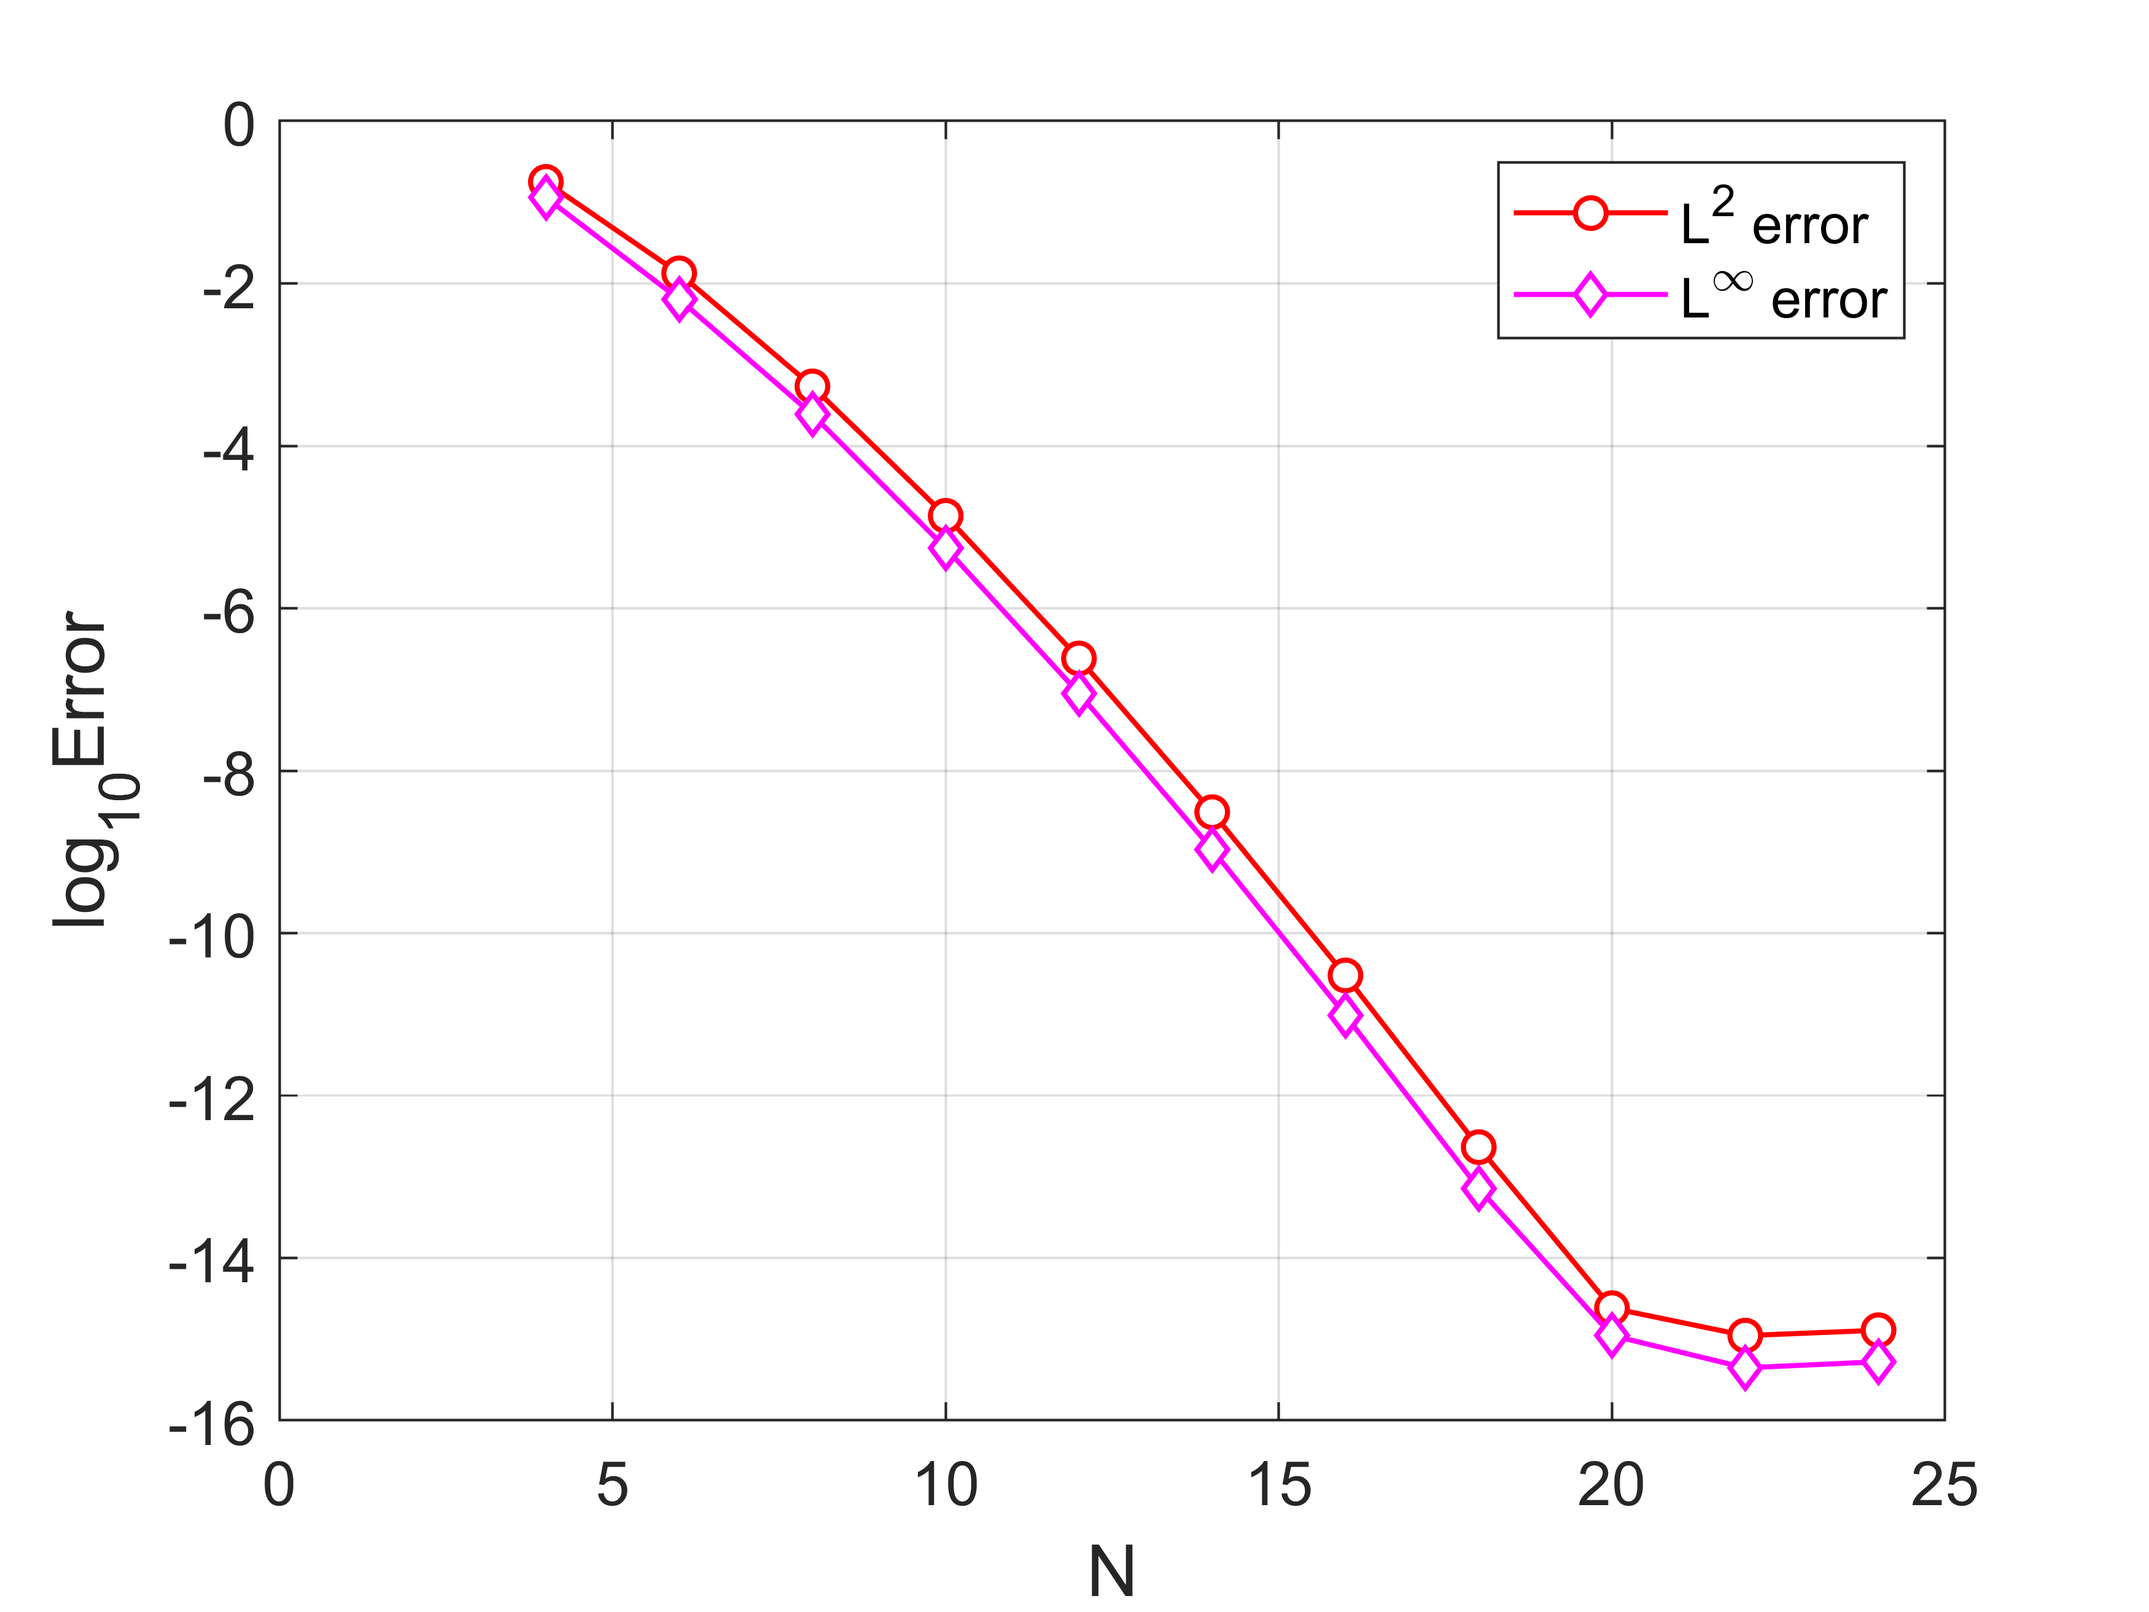
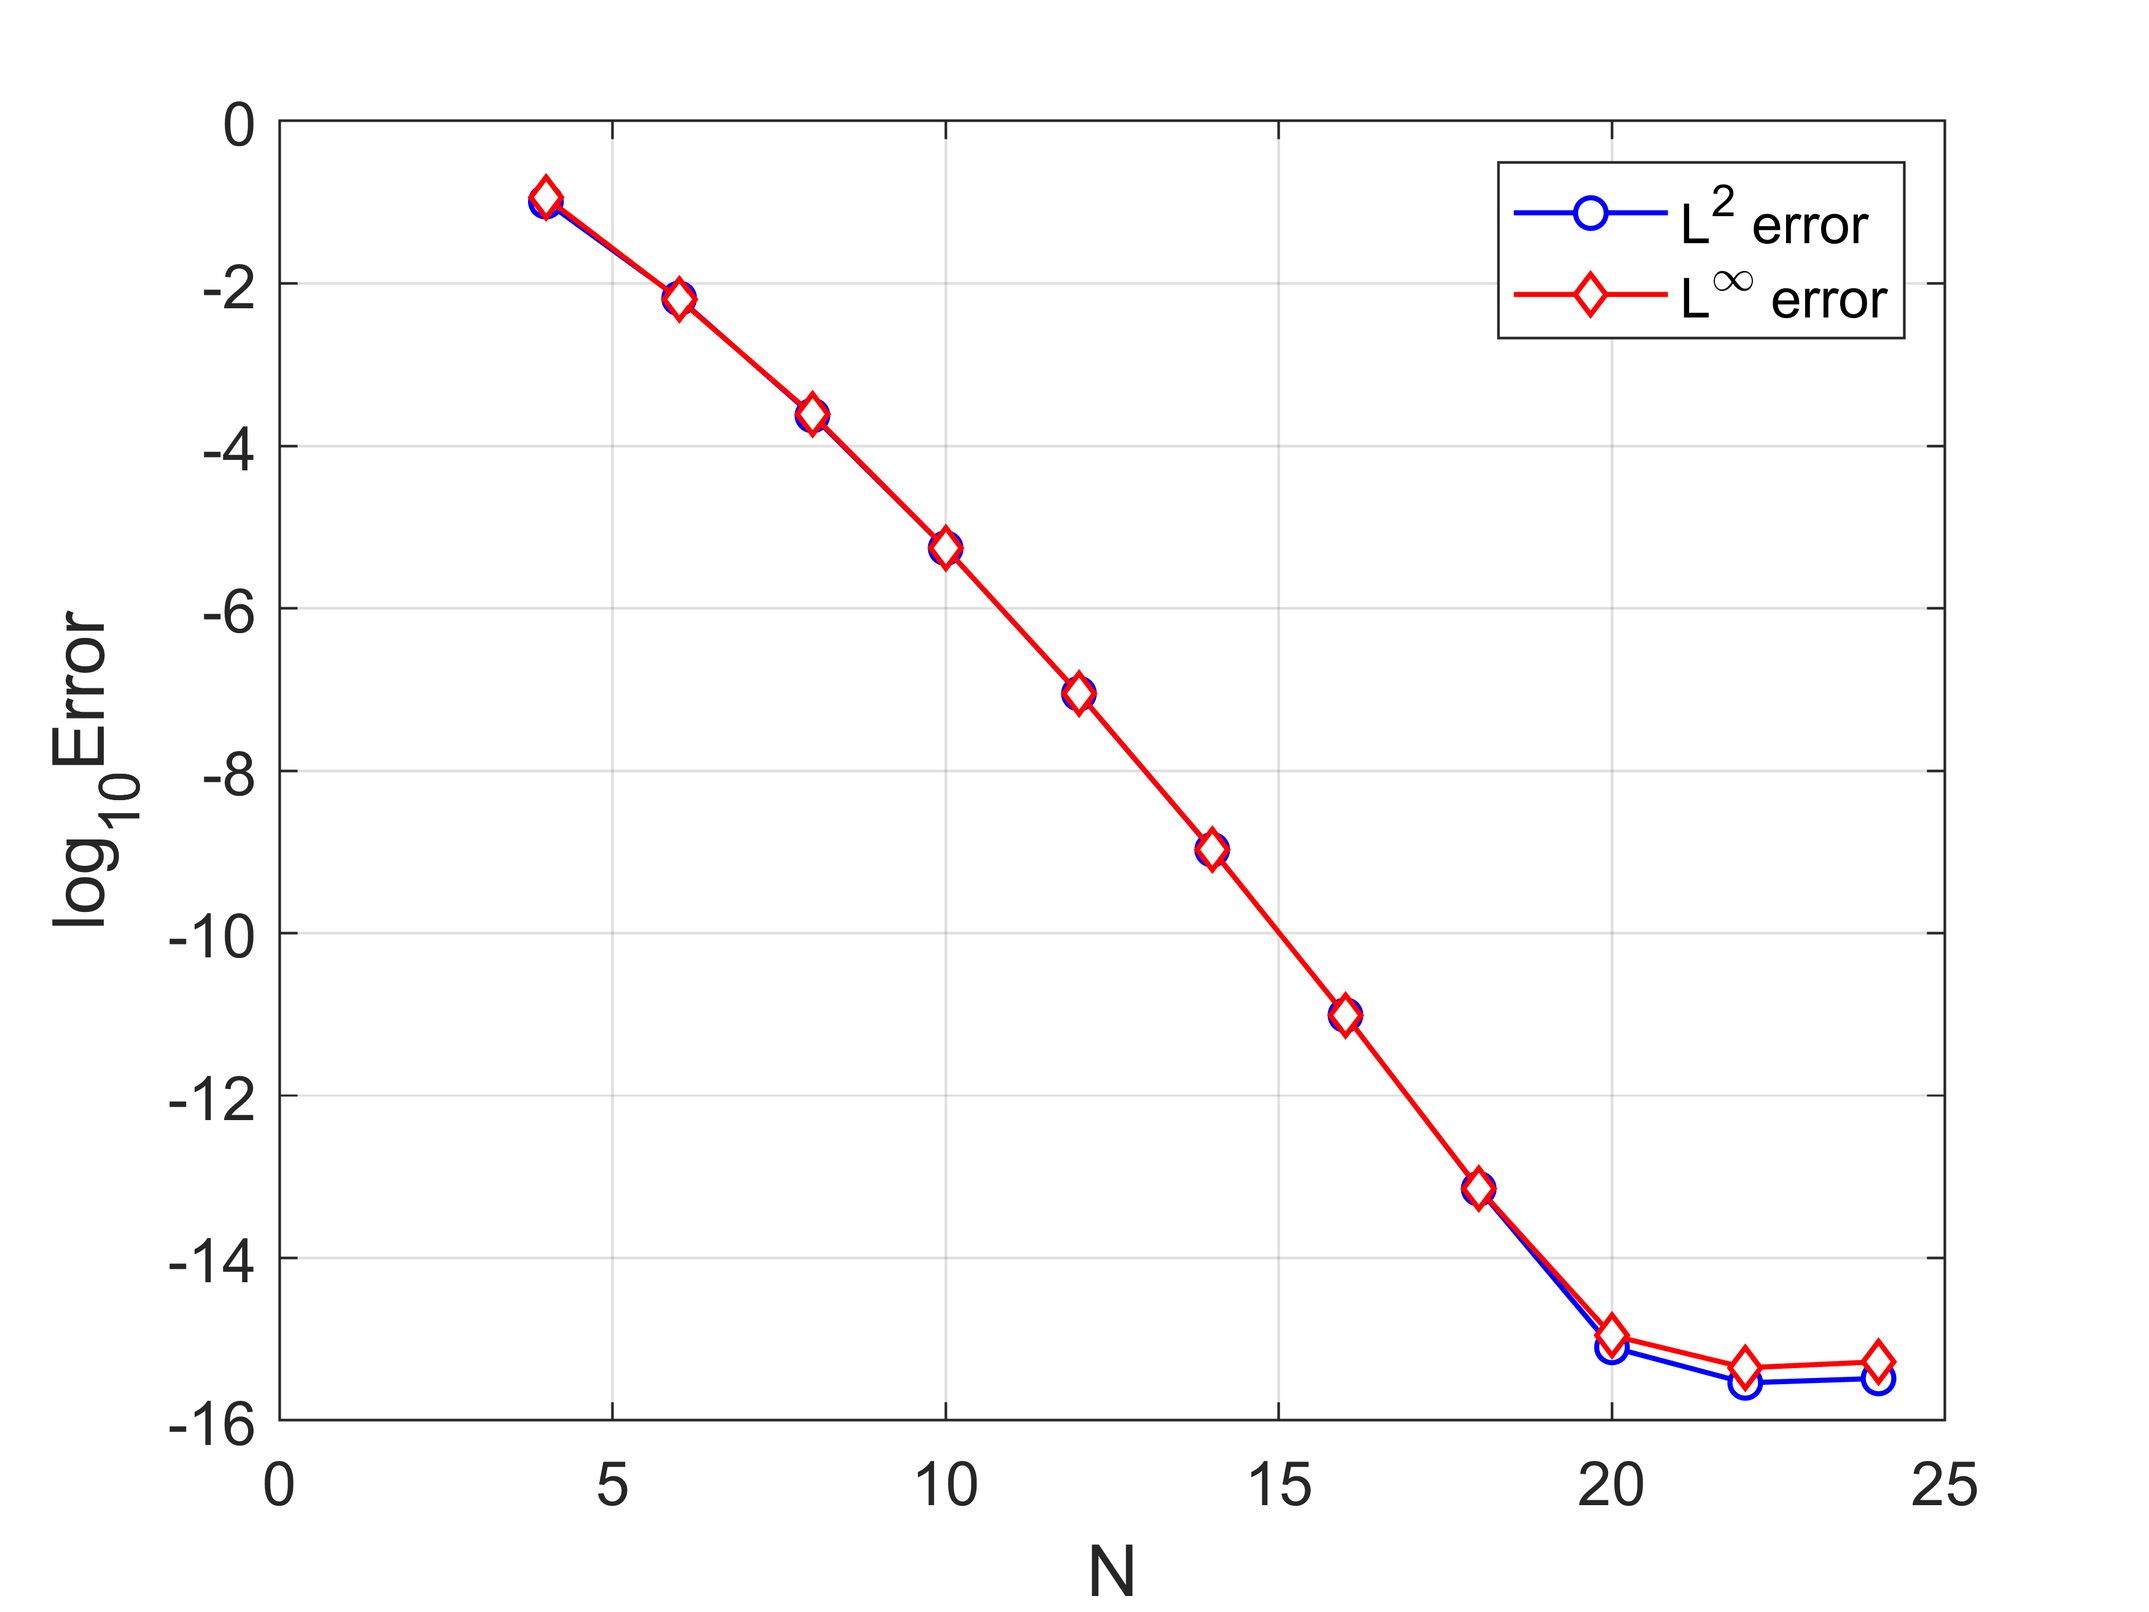
Update

diff --git a/SM Code/LegenSM2_error.m b/SM Code/LegenSM2_error.m
@@ -1,19 +1,24 @@
 % LegenSM2_error.m
 % Legendre-Galerkin Method for the model equation
-% -u''(x)+u'(x)+u(x)=f(x), x in (-1,1),
+% -mu*u''(x)+nu*u'(x)+rho*u(x)=f(x), x in (-1,1),
 % boundary condition: u(-1)=u(1)=0;
 % exact solution: u=sin(kw*pi*xv); 
-% RHS: f=kw*kw*pi^2*sin(kw*pi*xv)+sin(kw*pi*xv); 
+% RHS: f(x)=mu*kw^2*pi^2*sin(kw*pi*x)+nu*kw*pi*cos(kw*pi*x)+rho*sin(kw*pi*x); 
 % Rmk: Use routines lepoly(); legs(); lepolym();
-clear all;  clf
+clear, clf
 kw=1;
+mu=1;
+nu=1;
+rho=1;
 Nvec=[4:2:24];
-L2_Error=[]; Max_Error=[];   % initialization error
+% Initialization for error
+L2_Error=[];  Max_Error=[]; 
+
 for N=Nvec
     [xv,wv]=legs(N+1);       % Legendre-Gauss nodes and weights
     Lm=lepolym(N,xv);        % matrix of Legendre polynomals
     u=sin(kw*pi*xv);         % test function
-    f=kw*kw*pi^2*sin(kw*pi*xv)+sin(kw*pi*xv)+kw*pi*cos(kw*pi*xv);  % RHS
+    f=mu*kw*kw*pi^2*sin(kw*pi*xv)+nu*kw*pi*cos(kw*pi*xv)+rho*sin(kw*pi*xv);  % RHS
     % Calculating coefficients matrix
     S=eye(N-1);              % stiffness matrix
     M=diag(1./(4*[0:N-2]+6))*diag(2./(2*[0:N-2]+1)+2./(2*[0:N-2]+5))...
@@ -21,22 +26,22 @@ for N=Nvec
         -diag(2./(sqrt(4*[2:N-2]-2).*sqrt(4*[2:N-2]+6).*(2*[2:N-2]+1)),-2);   % mass matrix
     D=diag(1./(sqrt(2.*[0:N-3]+3).*sqrt(2.*[0:N-3]+5)),1)...
         +diag(-1./(sqrt(2.*[0:N-3]+3).*sqrt(2.*[0:N-3]+5)),-1);     % matrix of derivative term
-    A=S+M+D;          % coefficient matrix
+    A=mu*S+rho*M+nu*D;          % coefficient matrix
     % Solving the linear system
     Pm=diag(1./sqrt(4*[0:N-2]+6))*(Lm(1:end-2,:)-Lm(3:end,:));    % matrix of Phi(x)
     b=Pm*diag(wv)*f; 
     uh=A\b;           % expansion coefficients of u_N(x)
     un=Pm'*uh;        % Coefficiets to points
 
-    L2_error=norm(abs(un-u),2);      % L^2 error
+    L2_error=sqrt(((un-u).^2)'*wv);  % L^2 error
     Max_error=norm(abs(un-u),inf);   % maximum pointwise error 
     L2_Error=[L2_Error;L2_error];
     Max_Error=[Max_Error;Max_error];
 end
 % Plot L^2 and maximum pointwise error
-plot(Nvec,log10(L2_Error),'ro-','MarkerFaceColor','w','LineWidth',1)
+plot(Nvec,log10(L2_Error),'bo-','MarkerFaceColor','w','LineWidth',1)
 hold on
-plot(Nvec,log10(Max_Error),'md-','MarkerFaceColor','w','LineWidth',1)
+plot(Nvec,log10(Max_Error),'rd-','MarkerFaceColor','w','LineWidth',1)
 grid on
 legend('L^2 error','L^{\infty} error','location','NorthEast')
 % title('Error of Legendre-Galerkin methods','fontsize',12)

diff --git a/SM Code/LegenCM2_error.m b/SM Code/LegenCM2_error.m
@@ -1,39 +1,40 @@
 % LegenCM2_error.m
 % Legendre-collocation Method for the model equation: 
-% -u''(x)+mu*u'(x)+nu*u(x)=f(x),  x in (-1,1);
+% -mu*u''(x)+nu*u'(x)+rho*u(x)=f(x),  x in (-1,1);
 % % boundary condition: u(-1)=u(1)=0;
 % exact solution: u=sin(kw*pi*x); 
-% RHS: f(x)=kw^2*pi^2*sin(kw*pi*x)+sin(kw*pi*x)+kw*pi*cos(kw*pi*x); 
+% RHS: f(x)=mu*kw^2*pi^2*sin(kw*pi*x)+nu*kw*pi*cos(kw*pi*x)+rho*sin(kw*pi*x); 
 % Rmk: Use routines lepoly(); legslb(); legslbdm(); 
 clear all;  clf
 kw=10;
 nu=1;
 mu=1;
-Nvec=[32:2:76];
+rho=1;
+Nvec=32:2:76;
 % Initialization for error
-L2_Error=[];
-Max_Error=[];
+L2_Error=[];  Max_Error=[];
 for N=Nvec
     [xv,wv]=legslb(N);          % compute LGL nodes and weights
     u=sin(kw*pi*xv);            % test function
-    f=kw*kw*pi^2*sin(kw*pi*xv)+nu*kw*pi*cos(kw*pi*xv)+mu*sin(kw*pi*xv);  % RHS
+    f=mu*kw*kw*pi^2*sin(kw*pi*xv)+nu*kw*pi*cos(kw*pi*xv)+rho*sin(kw*pi*xv);  % RHS
     % Setup and solve the collocation system
     D1=legslbdiff(N,xv);  % 1st order differentiation matrices
     %D1=legslbdm(N);      % 1st order differentiation matrices
     D2=D1*D1;             % 2nd order differentiation matrices
-    D=-D2(2:N-1,2:N-1)+nu*D1(2:N-1,2:N-1)+mu*eye(N-2);   % coefficient matrices
+    D=-mu*D2(2:N-1,2:N-1)+nu*D1(2:N-1,2:N-1)+rho*eye(N-2);   % coefficient matrices
     b=f(2:N-1);   % RHS
     un=D\b;
     un=[0;un;0];  % Solve the system 
     
-    L2_error=norm(abs(un-u),2);      % L^2 error
-    Max_error=norm(abs(un-u),inf);   % maximum pointwise error 
+    L2_error=sqrt(((un-u).^2)'*wv);  % L^2 error
+    Max_error=norm(abs(un-u),inf);  % maximum pointwise error 
     L2_Error=[L2_Error;L2_error];
     Max_Error=[Max_Error;Max_error];
 end
-plot(Nvec,log10(L2_Error),'ro-','MarkerFaceColor','w','LineWidth',1)
+% Plot L^2 and maximum pointwise error
+plot(Nvec,log10(L2_Error),'bo-','MarkerFaceColor','w','LineWidth',1)
 hold on
-plot(Nvec,log10(Max_Error),'md-','color',[0 0.5 0],'MarkerFaceColor','w','LineWidth',1)
+plot(Nvec,log10(Max_Error),'rd-','MarkerFaceColor','w','LineWidth',1)
 grid on
 legend('L^2 error','L^{\infty} error','location','NorthEast')
 set(gca,'fontsize',12)

diff --git a/SM Code/LegenCM1_error.m b/SM Code/LegenCM1_error.m
@@ -6,36 +6,35 @@
 % RHS: f=kw*kw*pi^2*sin(kw*pi*x)+alpha*sin(kw*pi*x);
 % Rmk: Use routines lepoly(); legslb(); legslbdm();
 clear all;  clf
-alpha=1;
+alp=1;
 kw=1;
 Nvec=[4:2:30];
 % Nvec=[32:2:76];  % kw=10
 % Initialization for error
-L2_Error=[];
-Max_Error=[];
+L2_Error=[];  Max_Error=[];
 for N=Nvec
-    [x,w]=legslb(N);          % compute LGL nodes and weights
-    u=sin(kw*pi*x);           % test solution
-    udprime=-kw*kw*pi*pi*sin(kw*pi*x);
-    f=-udprime+alpha*u;       % RHS
+    [xv,wv]=legslb(N);          % compute LGL nodes and weights
+    u=sin(kw*pi*xv);           % test solution
+    udprime=-kw*kw*pi*pi*sin(kw*pi*xv);
+    f=-udprime+alp*u;       % RHS
     % Setup and solve the collocation system
     D1=legslbdm(N);           % 1st order differentiation matrices
     %D1=legslbdiff(N,x);      % 1st order differentiation matrices
     D2=D1*D1;                 % 2nd order differentiation matrices
-    D=(-D2(2:N-1,2:N-1)+alpha*eye(N-2)); % coefficient matrix
+    D=(-D2(2:N-1,2:N-1)+alp*eye(N-2)); % coefficient matrix
     b=f(2:N-1);               % RHS
     un=D\b;
     un=[0;un;0];              % Solve the system
     
-    L2_error=norm(abs(un-u),2);     % L^2 error
+    L2_error=sqrt(((un-u).^2)'*wv);  % L^2 error
     Max_error=norm(abs(un-u),inf);  % maximum pointwise error 
     L2_Error=[L2_Error;L2_error];
     Max_Error=[Max_Error;Max_error];
 end
 % Plot L^2 and maximum pointwise error
-plot(Nvec,log10(L2_Error),'ro-','MarkerFaceColor','w','LineWidth',1)
+plot(Nvec,log10(L2_Error),'bo-','MarkerFaceColor','w','LineWidth',1)
 hold on
-plot(Nvec,log10(Max_Error),'md-','MarkerFaceColor','w','LineWidth',1)
+plot(Nvec,log10(Max_Error),'rd-','MarkerFaceColor','w','LineWidth',1)
 grid on
 legend('L^2 error','L^{\infty} error','location','NorthEast')
 %title('Convergence of Legendre-collocation method','fontsize',12)

diff --git a/SM Code/ChebSM1_error.m b/SM Code/ChebSM1_error.m
@@ -8,11 +8,11 @@ clear all
 kw=10;
 Nvec=[32:2:76];
 % Initialization for error
-L2_Error=[];
-Max_Error=[];
+L2_Error=[];  Max_Error=[];
+
 for N=Nvec
     [xv,wv]=jags(N+1,-1/2,-1/2);               % Chebyshev-Gauss points and weights
-    Cm=japolym(N,-1/2,-1/2,xv)./japolym(N,-1/2,-1/2,1);   % matrix of Chebyshev polynomal    
+    Cm=japolym(N,-1/2,-1/2,xv)./japolym(N,-1/2,-1/2,1);  % matrix of Chebyshev polynomal    
     u=sin(kw*pi*xv);                           % test function
     f=kw*kw*pi^2*sin(kw*pi*xv)+sin(kw*pi*xv);  % RHS of test function
     % Calculting coefficient matrix
@@ -29,21 +29,21 @@ for N=Nvec
         +diag(-pi/2*ones(1,N-3),-2);    % mass matrix
     A=S+M;
     
-    % RHS calculative matrix
-    Pm=Cm(1:end-2,:)-Cm(3:end,:);
+    % Solving the linear system
+    Pm=Cm(1:end-2,:)-Cm(3:end,:);   % matrix of Phi(x)
     b=Pm*diag(wv)*f;          % Solving RHS
     uh=A\b;                   % expansion coefficients of u_N in terms of the basis
     un=Pm'*uh;                % compositing the numerical solution
     
-    L2_error=norm(abs(un-u),2);     % L^2 error
-    Max_error=norm(abs(un-u),inf);  % maximum pointwise error 
+    L2_error=sqrt(((un-u).^2)'*wv);  % L^2 error
+    Max_error=norm(abs(un-u),inf);   % maximum pointwise error 
     L2_Error=[L2_Error;L2_error];
     Max_Error=[Max_Error;Max_error];
 end
 % Plot L^2 and maximum pointwise error
-plot(Nvec,log10(L2_Error),'ro-','MarkerFaceColor','w','LineWidth',1)
+plot(Nvec,log10(L2_Error),'bo-','MarkerFaceColor','w','LineWidth',1)
 hold on
-plot(Nvec,log10(Max_Error),'md-','MarkerFaceColor','w','LineWidth',1)
+plot(Nvec,log10(Max_Error),'rd-','MarkerFaceColor','w','LineWidth',1)
 grid on
 legend('L^2 error','L^{\infty} error','location','NorthEast')
 % title('L^2 error of Chebyshev-Galerkin methods','fontsize',12)

diff --git a/SM Code/LegenSM1_error.m b/SM Code/LegenSM1_error.m
@@ -7,8 +7,8 @@
 clear all;  clf
 kw=10;
 Nvec=[32:2:76];
-
-L2_Error=[]; Max_Error=[];    % initialization error
+% Initialization for error
+L2_Error=[]; Max_Error=[];    
 
 for N=Nvec
     [xv,wv]=legs(N+1);        % Legendre-Gauss nodes and weights
@@ -22,20 +22,20 @@ for N=Nvec
         -diag(2./(sqrt(4*[2:N-2]-2).*sqrt(4*[2:N-2]+6).*(2*[2:N-2]+1)),-2);    % mass matrix
     A=S+M;
     % Solving the linear system
-    Pm=diag(1./sqrt(4*[0:N-2]+6))*(Lm(1:end-2,:)-Lm(3:end,:));   % matrix of Phi(x)
+    Pm=diag(1./sqrt(4*[0:N-2]+6))*(Lm(1:end-2,:)-Lm(3:end,:));  % matrix of Phi(x)
     b=Pm*diag(wv)*f;          % solving RHS
     uh=A\b;                   % expansion coefficients of u_N(x)
     un=Pm'*uh;                % compositing the numerical solution
     
-    L2_error=norm(abs(un-u),2);     % L^2 error
-    Max_error=norm(abs(un-u),inf);  % maximum pointwise error 
+    L2_error=sqrt(((un-u).^2)'*wv);  % L^2 error
+    Max_error=norm(abs(un-u),inf);   % maximum pointwise error 
     L2_Error=[L2_Error;L2_error];
     Max_Error=[Max_Error;Max_error];
 end
 % Plot L^2 and maximum pointwise error
-plot(Nvec,log10(L2_Error),'ro-','MarkerFaceColor','w','LineWidth',1)
+plot(Nvec,log10(L2_Error),'bo-','MarkerFaceColor','w','LineWidth',1)
 hold on
-plot(Nvec,log10(Max_Error),'md-','MarkerFaceColor','w','LineWidth',1)
+plot(Nvec,log10(Max_Error),'rd-','MarkerFaceColor','w','LineWidth',1)
 grid on
 legend('L^2 error','L^{\infty} error','location','NorthEast')
 % title('Error of Legendre-Galerkin methods','fontsize',12)

diff --git a/SM Code/LegenSM3_error.m b/SM Code/LegenSM3_error.m
@@ -7,8 +7,9 @@
 % exact solution: U=(1/2-1/2*x)^2*exp(1/2*x+1/2)-1;
 % RHS:  F=-2*x*exp(1/2*x+1/2)-1.
 clear all;  clf
-Nvec=3:18;  
-L2_Error=[];  condnv=[];   % initialization error and condition number
+Nvec=3:18;
+% Initialization error and condition number
+L2_Error=[];  condnv=[];
 for N=Nvec
     [xv,wv]=legs(N+1);           % Legendre-Gauss nodes and weights
     Lm=lepolym(N,xv);            % matrix of Legendre polynomals
@@ -27,17 +28,18 @@ for N=Nvec
     A=4*S+M;
     
     % Solving the linear system
-    Pm=(Lm(1:end-2,:)+diag((2*e1+3)./(e1+2).^2)*Lm(2:end-1,:)-diag((e1+1).^2./(e1+2).^2)*Lm(3:end,:));
+    Pm=(Lm(1:end-2,:)+diag((2*e1+3)./(e1+2).^2)...
+        *Lm(2:end-1,:)-diag((e1+1).^2./(e1+2).^2)*Lm(3:end,:));
     b=Pm*diag(wv)*F;         % solving RHS
     Uh=A\b;                  % expansion coefficients of u_N(x)
     Un=Pm'*Uh;               % compositing the numerical solution
     
-    L2_error=norm(abs(Un-U),2);   % L^2 error 
+    L2_error=sqrt(((Un-U).^2)'*wv);   % L^2 error 
     L2_Error=[L2_Error;L2_error];
     condnv=[condnv,cond(A)];      % condition number of A
 end
 % Plot L^2 error
-plot(Nvec,log10(L2_Error),'s-','color',[0 0.5 0],'MarkerFaceColor','w','LineWidth',1)
+plot(Nvec,log10(L2_Error),'bo-','MarkerFaceColor','w','LineWidth',1)
 grid on
 %title('L^2 error of Legendre-Galerkin method','fontsize',12)
 set(gca,'fontsize',12)

diff --git a/SM Code/LegenCM3_error.m b/SM Code/LegenCM3_error.m
@@ -7,7 +7,7 @@ clear all;  clf
 Nvec=4:18;
 L2_Error=[]; condnv=[];
 for N=Nvec
-    xv=legslb(N);             % compute LGL nodes and weights
+    [xv,wv]=legslb(N);        % compute LGL nodes and weights
     yv=1/2*(xv+1);            % variable substitution
     u=(1-yv).^2.*exp(yv);     % test solution in [0,1]
     f=(2-4*yv).*exp(yv);      % RHS in [0,1] 
@@ -20,13 +20,13 @@ for N=Nvec
     b=[1; f(2:N-1); 0];       % RHS
     un=D\b;                   % Solve the system 
     
-    L2_error=norm(abs(un-u),2);    % L^2 error
+    L2_error=sqrt(((un-u).^2)'*wv);    % L^2 error
     L2_Error=[L2_Error;L2_error];
     condnv=[condnv,cond(D)];
 end
 % Plot the L^2 error 
-plot(Nvec,log10(L2_Error),'m s-','MarkerFaceColor','w','LineWidth',1)
-%title('Convergence of Legendre-collocation method','fontsize',12)
+plot(Nvec,log10(L2_Error),'mo-','MarkerFaceColor','w','LineWidth',1)
+% title('Convergence of Legendre-collocation method','fontsize',12)
 set(gca,'fontsize',12)
 grid on, xlabel('N','fontsize', 14), ylabel('log_{10}Error','fontsize',14)
 

diff --git a/SM Code/LegenSM_error.m b/SM Code/LegenSM_error.m
@@ -25,10 +25,10 @@ for N=Nvec
     uh=A\b;                        % expansion coefficients of u_N(x)
     un=Pm'*uh;                     % compositing the numerical solution
     
+    L2_error=sqrt(((un-u).^2)'*wv);    % L^2 error
     Max_error=max(abs(un-u));      % maximum pointwise error
-    L2_error=norm(abs(un-u),2);    % L^2 error
-    Max_Error=[Max_Error;Max_error];
     L2_Error=[L2_Error;L2_error];
+    Max_Error=[Max_Error;Max_error];
 end
 % Plot the L^2 and maximum pointwise error
 plot(Nvec,log10(L2_Error),'bo-','MarkerFaceColor','w','LineWidth',1)

diff --git a/ODE Code/RungeKutta_error.m b/ODE Code/RungeKutta_error.m
@@ -25,7 +25,7 @@ for k=1:length(Nvec)
 end
 plot(log10(Nvec),log10(Error),'ro-','MarkerFaceColor','w','LineWidth',1)
 hold on
-plot(log10(Nvec), log10(Nvec.^(-4)), '--')
+plot(log10(Nvec),log10(Nvec.^(-4)), '--')
 grid on
 %title('Convergence of Runge-Kutta Method','fontsize',12)
 set(gca,'fontsize',12)
